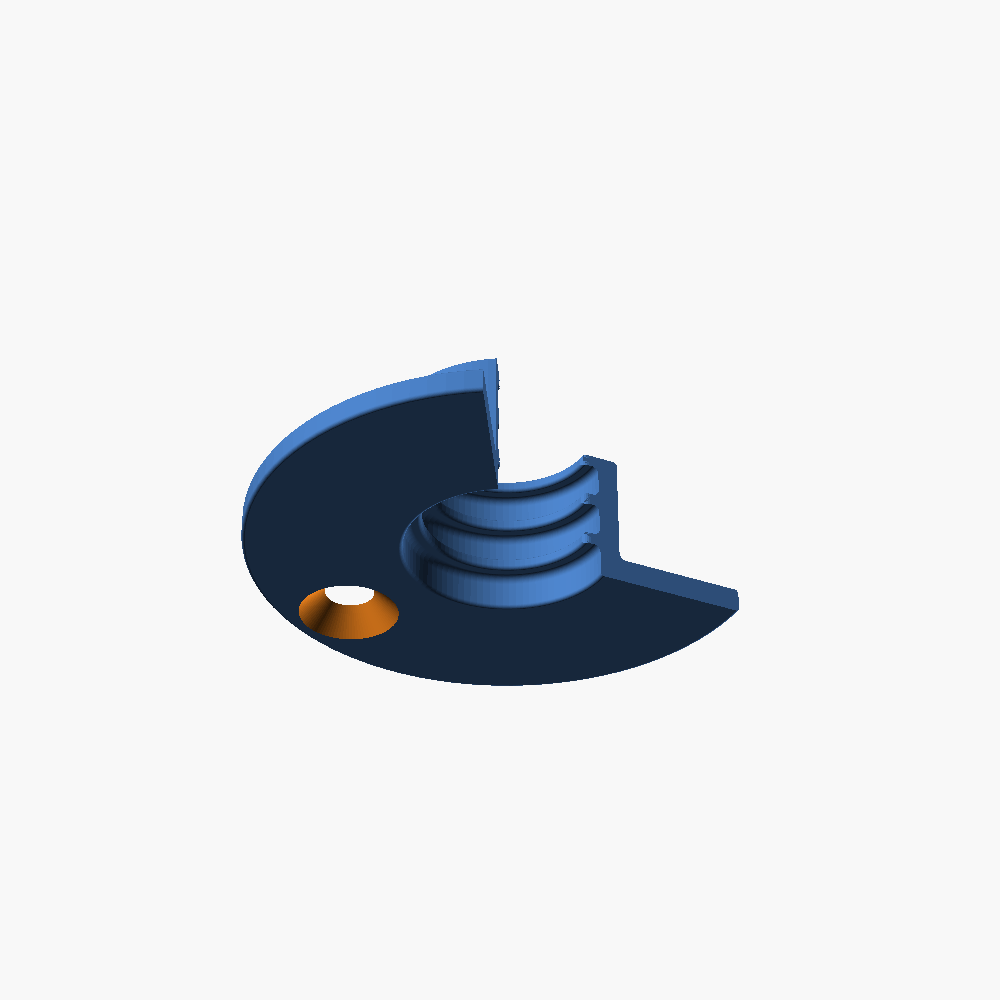
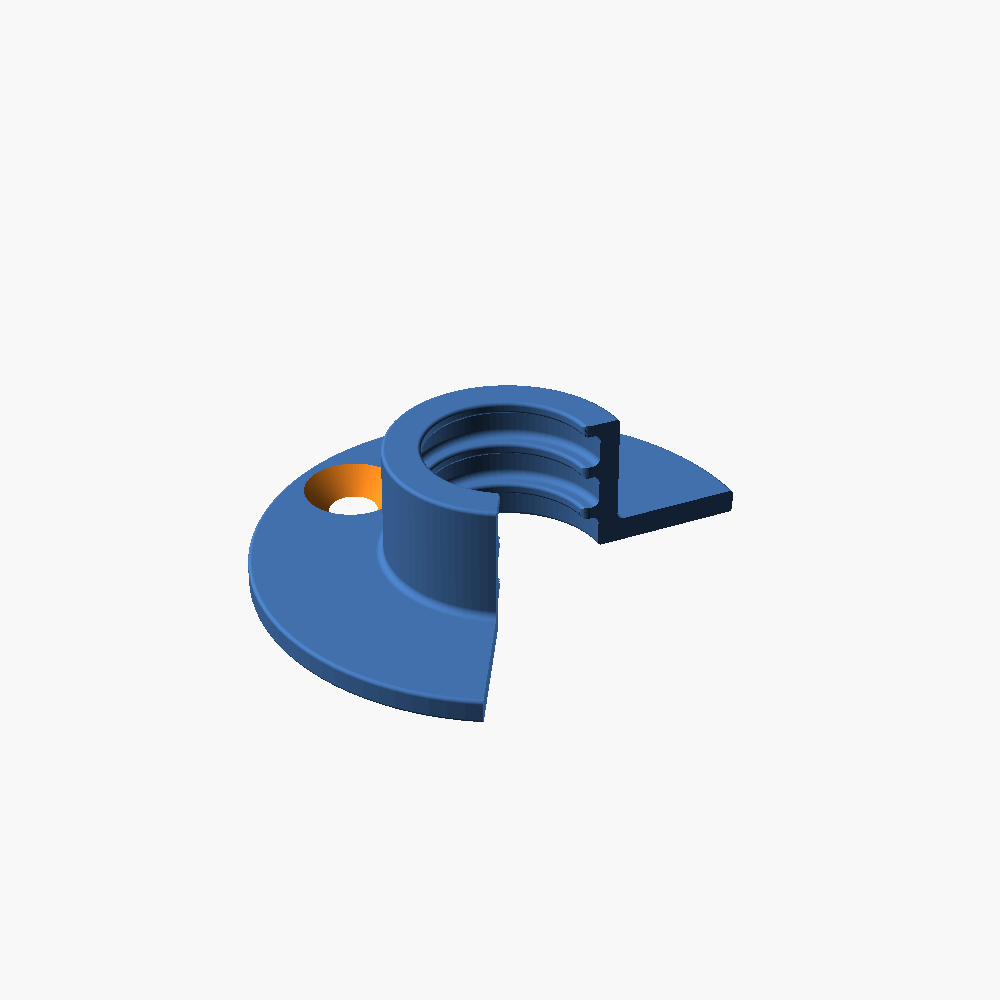
snap_collar: the heads go on the skirt side -- it is fitted the other way up
The two parts are not screwed down the same way round, and the brim followed
pipe_clamp's hand for both.

pipe_clamp's body goes INTO the hole it is screwed beside, so its flange lies on
the near face and the heads belong on the flange's outer face. snap_collar is
fitted the other way up: the brim's flat face is what bears, and the screws go in
from the same side the teeth point.

So which face the head sits on is a property of the fitting, not of the library,
and it is now an argument -- head_at_body on brim_screw_cuts, exposed as
screw_head_at_skirt on the collar for anyone who needs the other hand. The
through hole is symmetric, so only the cone moves.

pipe_clamp is untouched: conduit_16mm, conduit_40mm_mount, conduit_16mm_stud2
and the default snap_collar_16mm all still render byte-identical STLs. Only the
two collar stud presets change.

Changed region(s): [[0.217, 0.341, 0.744, 0.744]]

diff --git a/README.md b/README.md
@@ -274,6 +274,12 @@ One screw goes dead opposite the mouth, where the C is thickest and best support
 one to each side, at `screw_spread` degrees. Sized for a **3.5 mm gipsskrue** (30 mm is the
 usual length): Ø4.0 clearance, Ø8.0 bugle head, 90° countersink.
 
+> **The heads are on the skirt side.** This part is fitted the other way up from
+> `pipe_clamp`: the brim's flat face is the one that bears, and the screws go in from the
+> same side the teeth point. `pipe_clamp` has its heads on the opposite face, because its
+> body goes *into* the hole it is screwed beside. `screw_head_at_skirt` flips it if you need
+> the other hand.
+
 **The brim stays 2 mm thick.** At those sizes the countersink is exactly 2 mm deep, so it
 consumes the whole brim — which is how a countersunk hole in thin material works: there is
 no flat land under the head, the cone *is* the bearing surface, 53 mm² of it. The brim is
